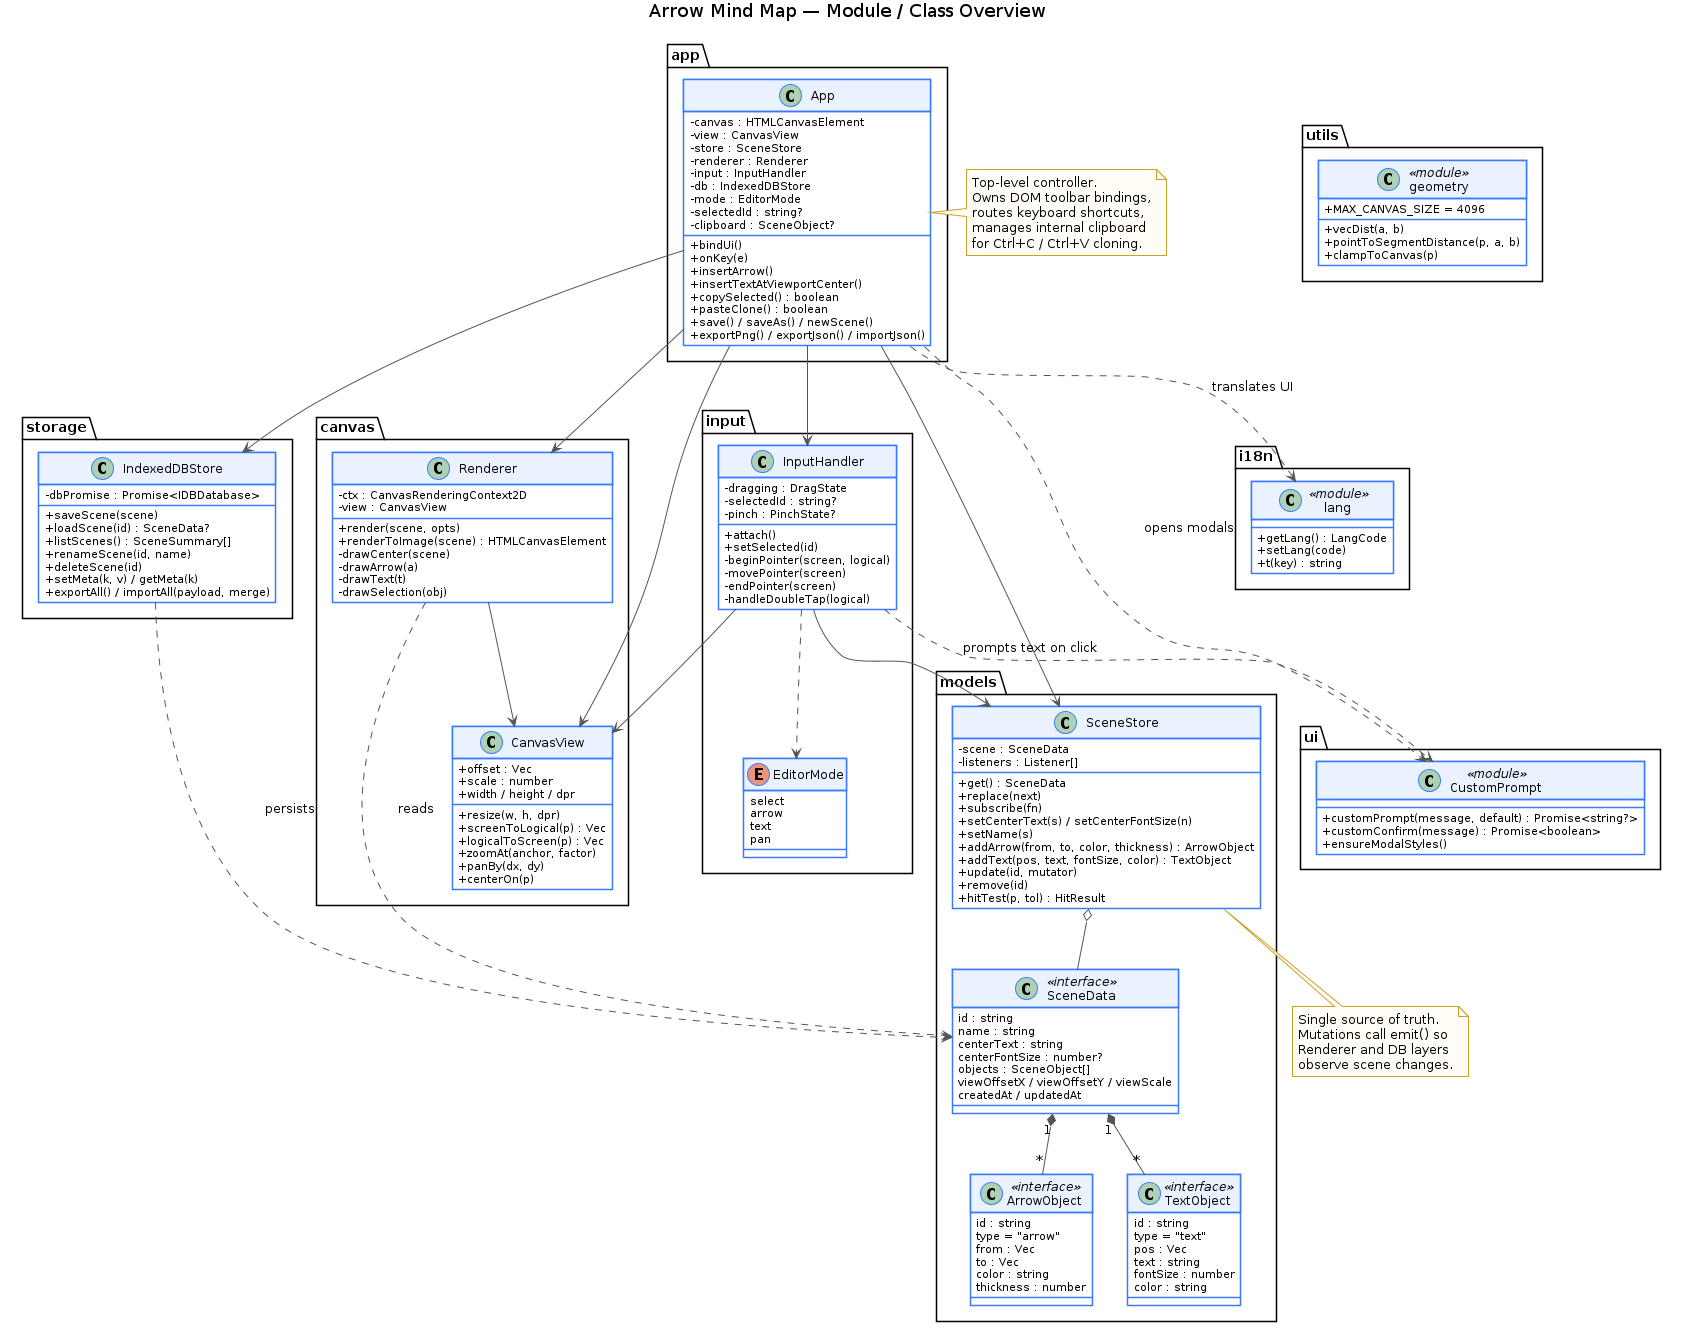
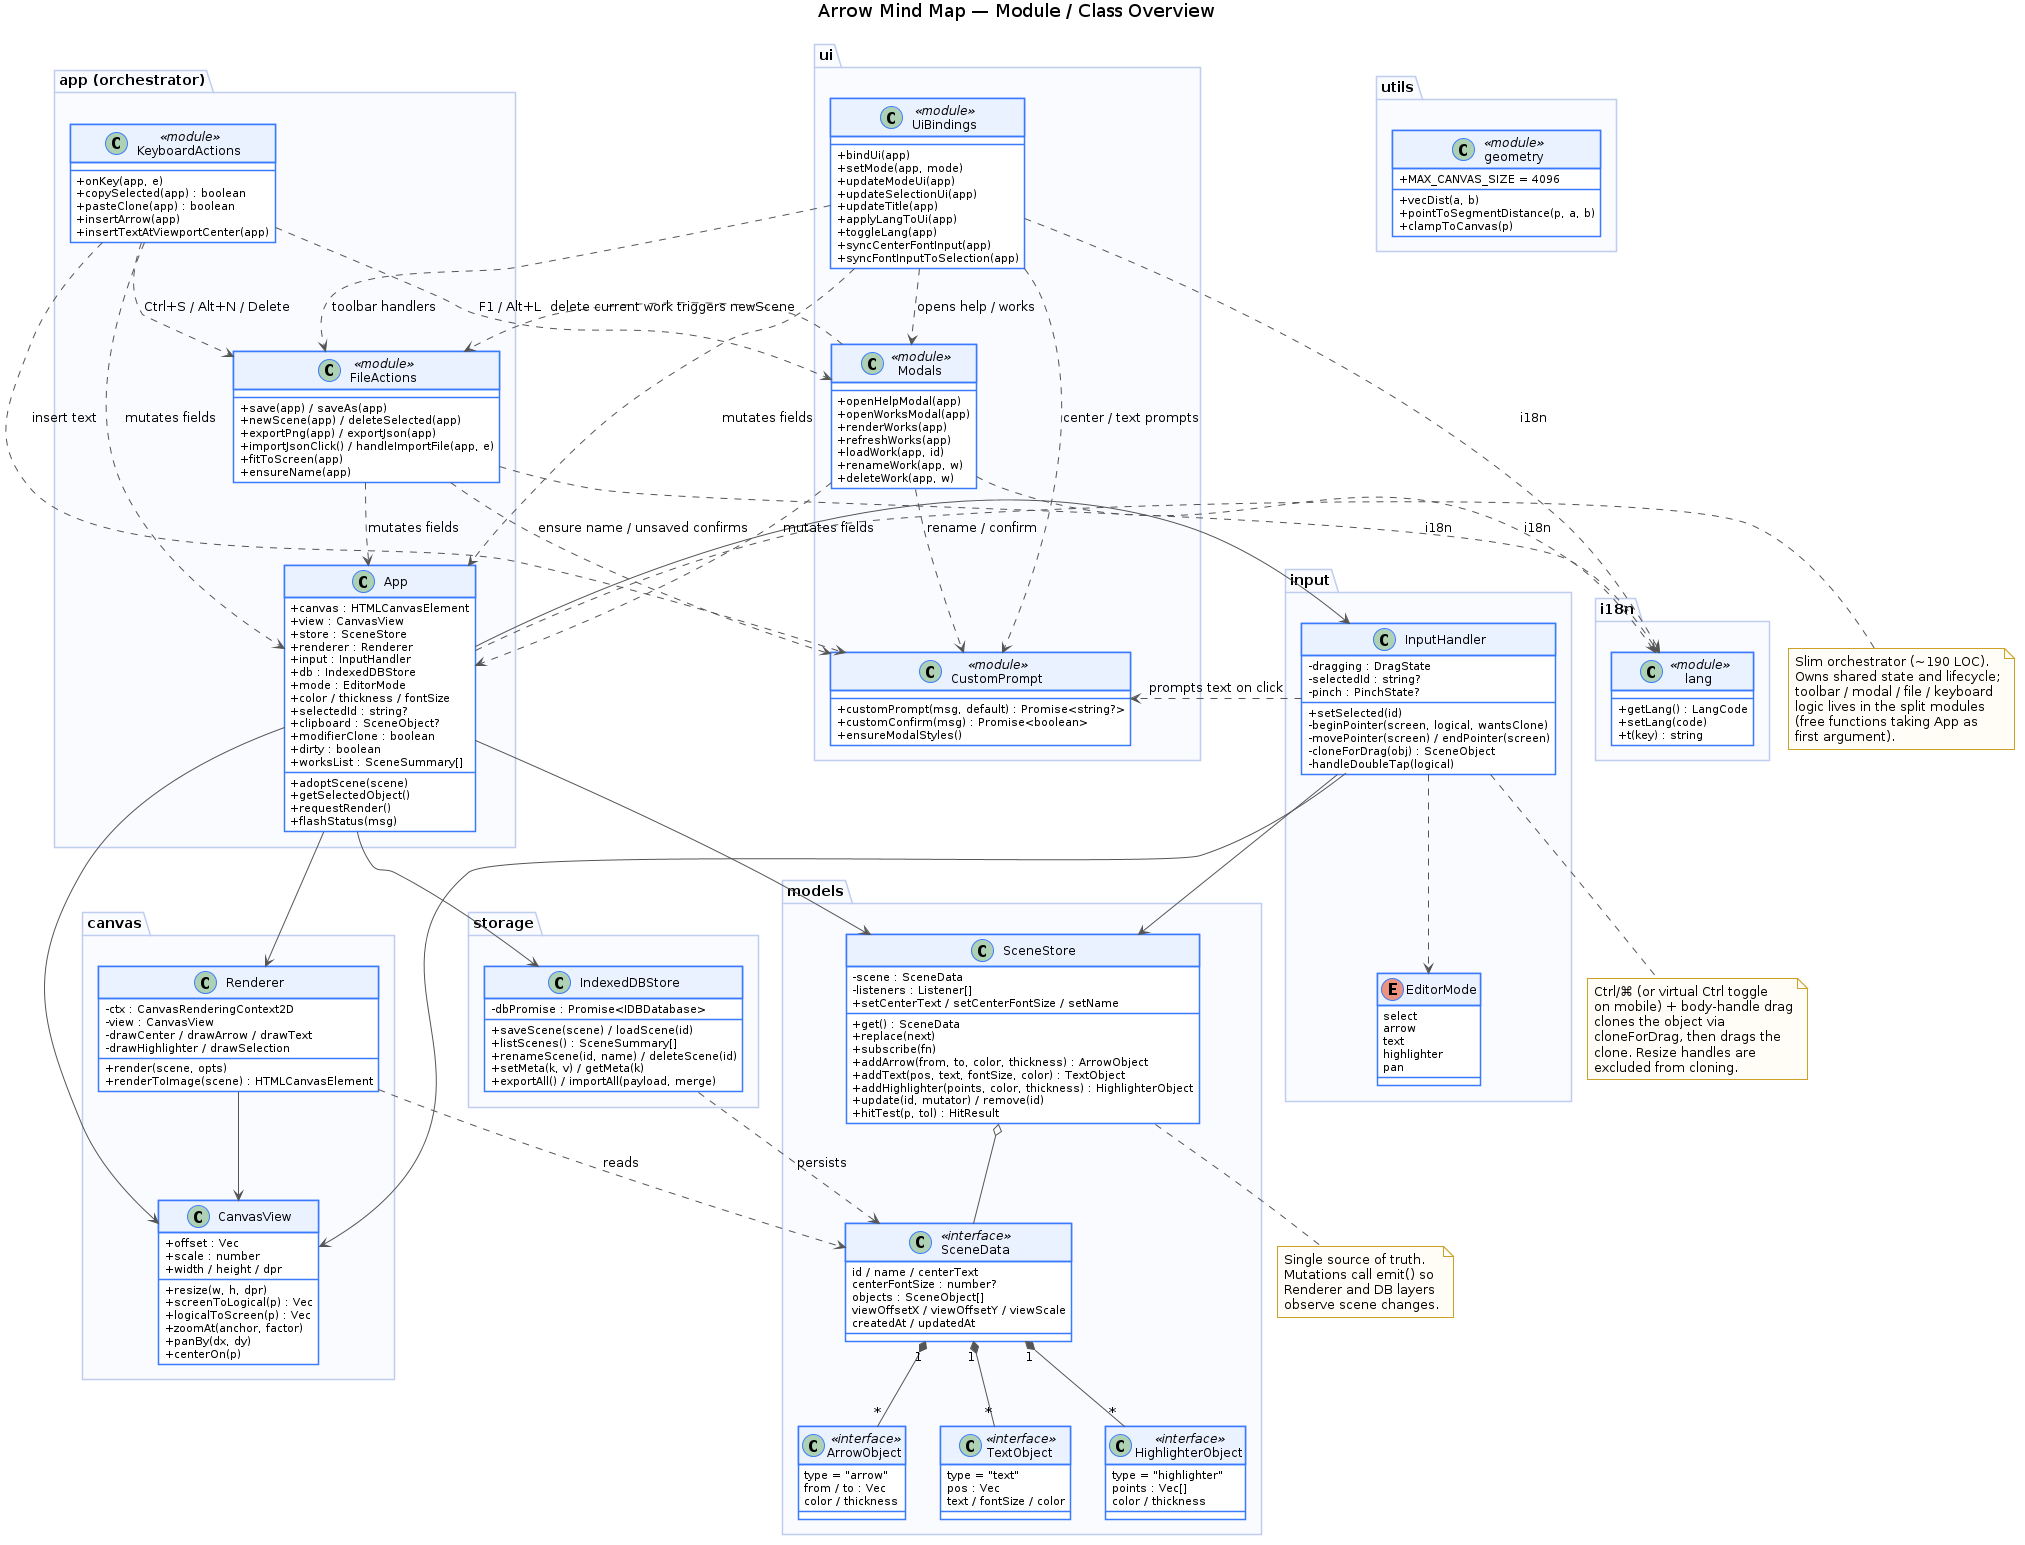
docs: 다이어그램·README 최신화 (분리 모듈 + Highlighter + Ctrl+드래그)
class-diagram.puml에 ui/UiBindings, ui/Modals, app/FileActions,
app/KeyboardActions 모듈과 HighlighterObject, EditorMode.highlighter,
modifierClone, cloneForDrag 반영. PNG 재생성. README는 새 기능
(형광펜·Ctrl+드래그 클론·가상 Ctrl 버튼·단축키 G/Alt+L/N)과 분리된
디렉토리 구조 반영.

diff --git a/README.md b/README.md
@@ -1,24 +1,27 @@
 # 화살표 마인드맵 (Arrow Mind Map)
 
 HTML5 Canvas + TypeScript 기반의 변형 마인드맵 웹앱입니다.
-**오직 화살표와 글자만** 사용하여 가운데 주제로부터 생각을 펼칠 수 있습니다.
+**화살표 · 글자 · 형광펜** 세 가지 객체만으로 가운데 주제로부터 생각을 펼칠 수 있습니다.
 
-> "Arrow" only mind map — a Canvas-based mind mapping tool that supports only
-> arrows and text objects radiating from a single center topic.
+> "Arrow" only mind map — a Canvas-based mind mapping tool that supports
+> arrows, text, and highlighter strokes radiating from a single center topic.
 
 ## 주요 기능
 
-- 🎯 **가운데 주제**: 캔버스 중앙에 주제 텍스트를 두고 자유롭게 편집
+- 🎯 **가운데 주제**: 캔버스 중앙에 주제 텍스트, 글자 크기까지 자유롭게 편집
 - ➡️ **화살표 그리기**: 빈 곳을 클릭/드래그하여 화살표 추가
-  - 끝점 핸들로 방향과 길이 조절
-  - 가운데 핸들로 통째 이동
+  - 끝점 핸들로 방향과 길이 조절, 가운데 핸들로 통째 이동
+  - `Insert` / `+` 누르면 자동 위치/길이로 즉시 추가
 - 🔤 **글자 객체**: 단어/문장 입력 후 이동 및 크기 조절 가능
-- 🔍 **확대/축소**:
-  - 마우스 휠 또는 ＋/－ 버튼
-  - 모바일에서 두 손가락 핀치 줌
-- 📐 **고정 4096×4096 캔버스** + 자유 패닝(Shift+드래그, 가운데 버튼, 또는 "이동" 모드)
+- 🖍️ **형광펜 (Highlighter)**: 반투명 폴리라인으로 강조 표시. 점 하나 탭으로 마커처럼 찍기도 가능
+- 🎨 **16색 빠른 팔레트** (데스크톱) + 표준 색상 선택기
+- 🔍 **확대/축소**: 마우스 휠, ＋/－ 버튼, 모바일 두 손가락 핀치 줌
+- 📐 **고정 4096×4096 캔버스** + 자유 패닝 (Shift+드래그 / 가운데 버튼 / "이동" 모드)
+- 📋 **객체 클립보드**: `Ctrl/⌘ + C / V`로 선택 객체 복제 (내부 클립보드, 좌표 어긋남 자동)
+- 🪄 **Ctrl + 드래그 = 복제 이동**: 본체를 끌면 즉시 복제 후 클론을 끌어감, 원본은 제자리
+  - 모바일: 좌측 하단 둥근 **Ctrl 토글 버튼**으로 동일 동작
 - 💾 **IndexedDB 자동 저장**: 작업물 여러 개를 이름으로 관리, 이어하기 지원
-  - 작업 이름 변경 / 삭제 / 불러오기
+  - 작업 목록 모달: 이름 변경 / 삭제 / 불러오기 / 이름순·최근수정순 정렬
   - 전체 작업물을 JSON으로 내보내기 / 가져오기
 - 🖼️ **PNG 내보내기**: 현재 작업을 고해상도 PNG로 저장
 - 🌐 **한국어 / 영어 인터페이스 토글**
@@ -56,8 +59,15 @@ python -m http.server 8001
 
 ![Class diagram](docs/class-diagram.png)
 
-`App`이 최상위 컨트롤러로서 `CanvasView`, `Renderer`, `SceneStore`, `InputHandler`, `IndexedDBStore`를 소유합니다.
-`SceneStore`가 단일 진실 공급원(single source of truth)이며 변경 이벤트를 통해 다른 계층이 동기화됩니다.
+`App`은 슬림한 오케스트레이터(~190 LOC)로 공유 상태와 라이프사이클만 가지며, 동작은 네 모듈로 분리되어 있습니다.
+
+- `src/ui/UiBindings.ts` — 툴바 / 색상 팔레트 / 모드·언어·제목 동기화
+- `src/ui/Modals.ts` — 도움말 / 작업 목록 모달
+- `src/app/FileActions.ts` — 저장 · 불러오기 · 내보내기 · Fit
+- `src/app/KeyboardActions.ts` — 단축키 · 클립보드 · 자동 삽입
+
+각 모듈은 `App` 인스턴스를 첫 인자로 받는 free function 묶음입니다.
+`SceneStore`는 단일 진실 공급원(single source of truth)이며 변경 이벤트를 통해 Renderer와 UI 계층이 동기화됩니다.
 
 ### 화살표 그리기 흐름 (Sequence — Drawing an arrow)
 
@@ -65,6 +75,7 @@ python -m http.server 8001
 
 빈 영역에서 mousedown → drag → mouseup으로 이어지는 화살표 그리기 과정을 보여줍니다.
 draft 상태는 `InputHandler`가 들고 있다가 release 시 `SceneStore.addArrow`로 commit합니다.
+commit 후에도 화살표 모드를 유지하여 연속 그리기가 가능합니다.
 
 ### 저장 / 복원 흐름 (Sequence — Save & auto-restore)
 
@@ -82,61 +93,76 @@ draft 상태는 `InputHandler`가 들고 있다가 release 시 `SceneStore.addAr
 
 ```
 arrow/
-├─ index.html              # 개발용 진입점 (dist/bundle.js 참조)
-├─ dist/bundle.js          # 빌드된 단일 JS 번들
-├─ src/                    # TypeScript 소스 (모듈별 분리)
+├─ index.html                # 개발용 진입점 (dist/bundle.js 참조)
+├─ dist/bundle.js            # 빌드된 단일 JS 번들 (손 유지 IIFE)
+├─ src/                      # TypeScript 소스
 │  ├─ main.ts
-│  ├─ app.ts
+│  ├─ app.ts                 # 슬림 오케스트레이터 (~190 LOC)
+│  ├─ app/
+│  │  ├─ FileActions.ts      # save/load/export/new/delete/fit
+│  │  └─ KeyboardActions.ts  # onKey/clipboard/insert helpers
+│  ├─ ui/
+│  │  ├─ UiBindings.ts       # 툴바 / 팔레트 / mode·lang·title 동기화
+│  │  ├─ Modals.ts           # Help / Works 모달
+│  │  └─ CustomPrompt.ts     # window.prompt 대체 모달
 │  ├─ canvas/CanvasView.ts, Renderer.ts
 │  ├─ models/types.ts, SceneStore.ts
 │  ├─ input/InputHandler.ts
 │  ├─ storage/IndexedDBStore.ts
 │  ├─ i18n/lang.ts
 │  └─ utils/geometry.ts
-├─ test/                   # 단위 테스트 (브라우저 + Node)
+├─ test/                     # 단위 테스트 (브라우저 + Node, 35개 케이스)
 │  ├─ test_runner.html
 │  ├─ test_arrow.js
 │  └─ run_node.js
-├─ scripts/inline_build.py # release 빌드 헬퍼
+├─ scripts/inline_build.py   # release 빌드 헬퍼
 ├─ build.sh / build.bat
-├─ docs/                   # 아키텍처 다이어그램 (PlantUML + PNG)
-├─ history.md              # 작업 이력
-└─ release/index.html      # 빌드 산출물
+├─ docs/                     # 아키텍처 다이어그램 (PlantUML + PNG)
+├─ history.md                # 작업 이력
+├─ TODO.md                   # 작업 항목 체크리스트
+└─ release/index.html        # 빌드 산출물 (단일 파일)
 ```
 
 ## 사용 안내
 
 1. 상단의 **"화살표"** 버튼을 누른 뒤 캔버스 빈 곳을 드래그하면 화살표가 만들어집니다.
 2. **"글자"** 모드에서 캔버스를 클릭하면 입력창이 열립니다.
-3. 객체를 클릭하면 핸들이 나타납니다.
-   - 화살표 끝점(파랑) — 방향/길이 조절
-   - 화살표 중점(노랑) — 통째 이동
+3. **"형광펜"** 모드에서 자유 곡선처럼 끌어 강조 표시. 점 하나만 톡 찍어도 마커가 남습니다.
+4. 객체를 클릭하면 핸들이 나타납니다.
+   - 화살표 끝점 — 방향/길이 조절
+   - 화살표 중점 — 통째 이동
    - 글자 우하단 핸들 — 글자 크기 조절
-4. 객체를 더블 클릭하면 글자 내용을 다시 입력할 수 있습니다.
-5. 빈 곳을 더블 클릭하면 **가운데 주제 텍스트**를 편집합니다.
-6. **저장** 버튼을 누르면 IndexedDB에 저장됩니다. 다음 방문 시 마지막 작업이 자동으로 복원됩니다.
-7. 우측 패널의 작업물 목록에서 다른 작업을 불러오거나 삭제/이름변경할 수 있습니다.
+5. 객체를 더블 클릭하면 글자 내용을 다시 입력할 수 있습니다.
+6. 빈 곳을 더블 클릭하면 **가운데 주제 텍스트**를 편집합니다.
+7. **`Ctrl/⌘` + 본체 드래그**로 객체를 복제하면서 끌어낼 수 있습니다. 원본은 그대로 남습니다.
+   - 모바일에서는 좌측 하단 **Ctrl 토글 버튼**을 탭해 활성화한 뒤 드래그하면 동일하게 동작합니다.
+8. **저장** 버튼이나 `Ctrl/⌘ + S`로 IndexedDB에 저장합니다. 다음 방문 시 마지막 작업이 자동으로 복원됩니다.
+9. **작업 목록** 버튼 (또는 `Alt + L`) 으로 다른 작업을 불러오거나 이름변경 / 삭제할 수 있습니다.
 
 ## 키보드 단축키
 
 - `V` — 선택 모드
 - `A` — 화살표 모드
 - `T` — 글자 모드
-- `H` — 이동 모드
+- `G` — 형광펜 모드
+- `H` — 이동(패닝) 모드
 - `Insert` / `+` — 현재 화면 중앙에 가로 화살표 즉시 추가
 - `Enter` — 현재 화면 중앙에 글자 추가
 - `Delete` / `Backspace` — 선택 객체 삭제
 - `Ctrl/⌘ + C` / `Ctrl/⌘ + V` — 선택 객체 복사 / 붙여넣기 (내부 클립보드)
 - `Ctrl/⌘ + S` — 저장
+- `Alt + N` — 새 문서
+- `Alt + L` — 작업 목록 모달 열기
 - `F1` — 도움말 (헤더의 ❓ 버튼과 동일)
+- `Ctrl/⌘` + 본체 드래그 — 선택 객체 복제 후 이동
 
 ## 테스트
 
 ```sh
-# Node (geometry, SceneStore, i18n)
+# Node — 핵심 모듈 (geometry / SceneStore / CanvasView / i18n) 35개 케이스
 node test/run_node.js
 
-# 브라우저 (전체 모듈)
+# 브라우저 — 전체 테스트 러너
 python -m http.server 8001
 # 이후 http://localhost:8001/test/test_runner.html 열기
 ```
@@ -147,4 +173,4 @@ python -m http.server 8001
 
 ## 작업 이력
 
-`history.md` 참고.
+`history.md` 참고. 작업 항목 체크리스트는 `TODO.md`.

diff --git a/history.md b/history.md
@@ -4,6 +4,25 @@
 
 ## 2026-05-15
 
+### 다이어그램·README 최신화
+
+- 동기: `app.ts` 분리, Highlighter, Ctrl+드래그 클론·가상 Ctrl 버튼이 추가되면서 `docs/class-diagram.puml`과 `README.md`가 모두 낡았음. 다이어그램은 PNG도 함께 재생성.
+- `docs/class-diagram.puml`:
+  - `app` 패키지에 `App` 외에 `FileActions`, `KeyboardActions` 모듈 추가.
+  - `ui` 패키지에 `UiBindings`, `Modals` 모듈 추가.
+  - `HighlighterObject` 인터페이스 추가, `SceneStore.addHighlighter` 노출.
+  - `EditorMode`에 `highlighter` 멤버 추가.
+  - `InputHandler`에 `cloneForDrag` 및 `beginPointer(screen, logical, wantsClone)` 시그니처 반영. 클론/리사이즈 핸들 제외 설명 노트 추가.
+  - `App`에 `modifierClone : boolean` 필드와 슬림 오케스트레이터 설명 노트.
+  - 분리 모듈 간 협력 관계(점선 화살표)와 `App` 의존 관계 명시.
+- `plantuml -tpng docs/*.puml`로 3종 PNG 재생성. 시퀀스 2종은 PUML 미변경이라 바이트 동일.
+- `README.md`(한글) 정비:
+  - 주요 기능에 형광펜, 16색 팔레트, Ctrl+드래그 클론, 모바일 가상 Ctrl 버튼 추가.
+  - 디렉토리 구조에 `src/ui/`, `src/app/` 하위 모듈 표기, 테스트 케이스 수 35개로 갱신, `TODO.md` 항목 추가.
+  - 사용 안내·키보드 단축키 섹션에 형광펜(`G`) / `Alt+N`·`Alt+L` / Ctrl+드래그 항목 보강.
+  - 아키텍처 설명을 "App이 직접 모든 걸 소유" → "슬림 오케스트레이터 + 네 모듈" 구조로 갱신.
+- 검증: PNG 파일 헤더(`file` 명령)로 유효성 확인. README 한글 유지.
+
 ### 번들 우클릭 드리프트 보정
 
 - 증상: 커밋 `003458f`(우클릭으로 객체 선택)에서 TS 소스만 갱신되고 `dist/bundle.js`는 누락. 번들의 `_onMouseDown`이 `e.button === 2`도 pan으로 묶어 처리해 우클릭 선택이 동작하지 않았음.